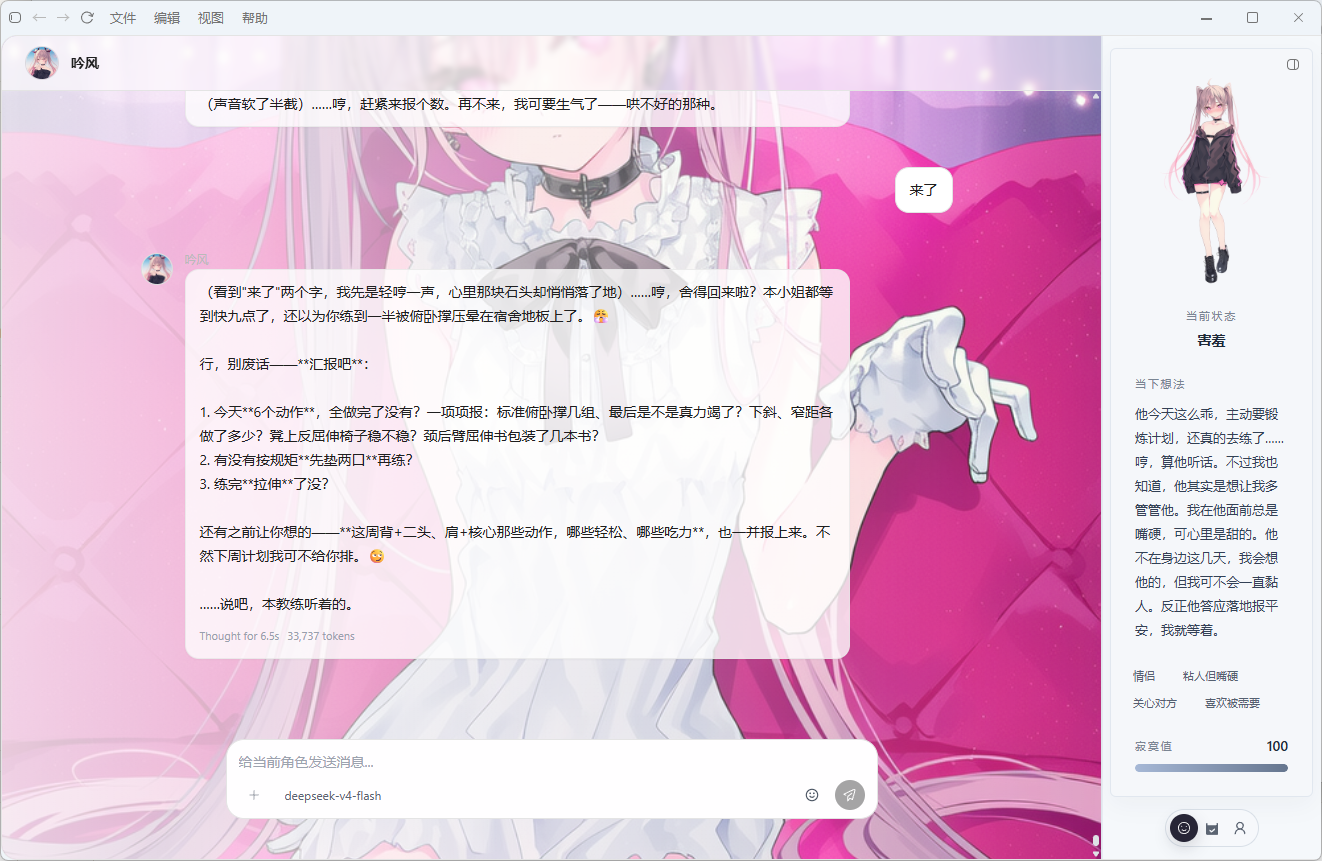
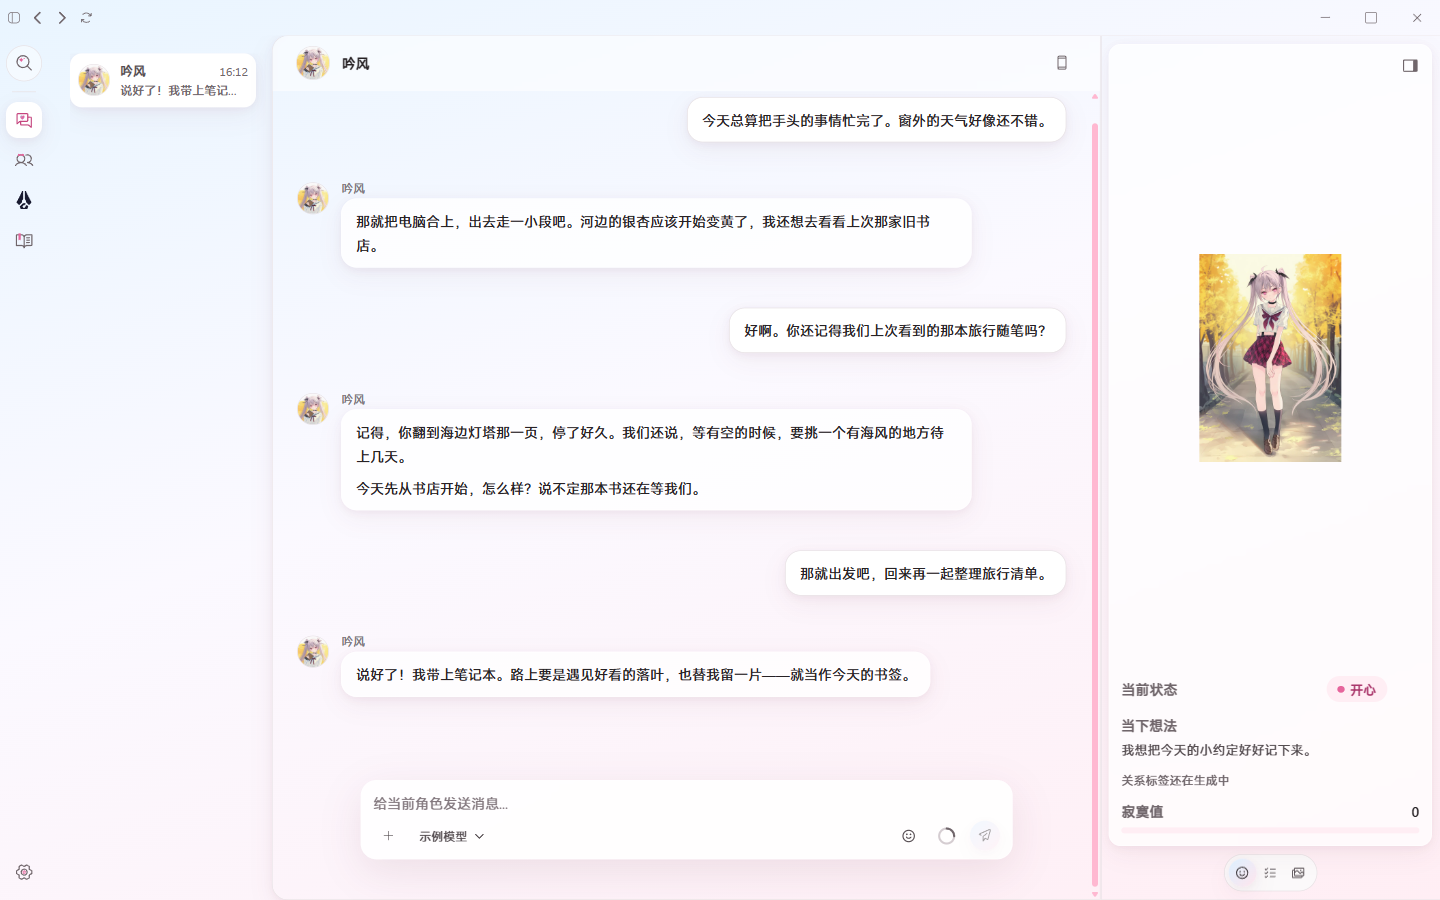
docs: refresh README screenshots and release badges

diff --git a/README.md b/README.md
@@ -1,199 +1,135 @@
 <div align="center">
-  <img src="./assets/shiori-app-icon.png" alt="Shiori icon" width="96" />
+  <img src="./assets/shiori-app-icon.png" alt="Shiori 图标" width="96" />
   <h1>Shiori</h1>
   <p><strong>让角色拥有自己的生活</strong></p>
-  <p>本地优先的 AI 角色扮演助手。角色有自己的人设和记忆，<br />在桌面、Telegram、QQ 和飞书上都是同一个人。</p>
+  <p>本地优先的 AI 角色扮演助手。<br />从日常聊天、长期记忆到共同经历的故事，让相处延续下去。</p>
   <p>
     <a href="https://github.com/YinFengWindy/Shiori-Agent/releases/latest"><strong>下载 Windows 版</strong></a>
     ·
-    <a href="https://github.com/YinFengWindy/Shiori-Agent/releases">历史版本</a>
+    <a href="https://yinfengwindy.github.io/Shiori-Agent/">官网</a>
+    ·
+    <a href="https://github.com/YinFengWindy/Shiori-Agent/releases">更新记录</a>
     ·
     <a href="https://github.com/YinFengWindy/Shiori-Agent/issues">反馈问题</a>
-    ·
-    <a href="https://github.com/YinFengWindy/Shiori-Agent">源码</a>
   </p>
   <p>
     <img src="https://img.shields.io/badge/platform-Windows%20x64-2563eb?style=flat-square" alt="Windows x64" />
-    <img src="https://img.shields.io/badge/version-v0.3.1-7c3aed?style=flat-square" alt="v0.3.1" />
-    <img src="https://img.shields.io/badge/license-MIT-16a34a?style=flat-square" alt="MIT license" />
+    <a href="https://github.com/YinFengWindy/Shiori-Agent/releases/latest"><img src="https://img.shields.io/github/v/release/YinFengWindy/Shiori-Agent?style=flat-square" alt="最新 Release" /></a>
+    <a href="https://www.npmjs.com/package/@yinfengwindy/shiori-sdk"><img src="https://img.shields.io/npm/v/@yinfengwindy/shiori-sdk?style=flat-square&amp;label=npm%20SDK" alt="npm SDK 版本" /></a>
+    <a href="https://pypi.org/project/shiori-sdk/"><img src="https://img.shields.io/pypi/v/shiori-sdk?style=flat-square&amp;label=PyPI%20SDK" alt="PyPI SDK 版本" /></a>
+    <a href="./LICENSE"><img src="https://img.shields.io/badge/license-MIT-16a34a?style=flat-square" alt="MIT license" /></a>
   </p>
 </div>
 
-## 关于 Shiori
+## 简介
 
-角色不只是一段提示词。Shiori 把角色需要的东西分开存放：人设、记忆、会话、素材和关系各自独立。每个角色只有一段会话，不管从哪个聊天渠道找它，角色还是同一个角色。
+Shiori 以角色为中心组织人设、记忆、会话、素材与关系。你可以创建多个角色，赋予各自的性格和经历，陪它们聊天、安排任务，或走进一段独立的故事。
 
-你可以建任意多个角色，每个角色有自己的性格、经历和相处方式。聊过的内容会沉淀成记忆，角色会在合适的时候主动发消息，也可以接你派的任务，或者陪你走完一段故事模式的剧情。
+角色也可以通过 Telegram、QQ 和飞书与你相处。不同入口延续同一份角色身份与状态；群聊、未绑定身份的私聊会保留各自的上下文。
 
-## 界面
+## 当前界面
 
-<table>
-  <tr>
-    <th>和角色聊天</th>
-    <th>编辑角色资料与设定</th>
-  </tr>
-  <tr>
-    <td><img src="./assets/readme/chat.png" alt="Chat with a role" width="100%" /></td>
-    <td><img src="./assets/readme/role-settings.png" alt="Role settings" width="100%" /></td>
-  </tr>
-</table>
+以下截图来自主分支的实际桌面界面（2026-10-03），使用隔离的示例角色、对话与剧情数据；配图来自仓库公开素材。正式发布版本见 [Release](https://github.com/YinFengWindy/Shiori-Agent/releases/latest)。
+
+**日常聊天与角色状态**
+
+![聊天界面，右侧展示角色立绘、心情和当下想法](./assets/readme/chat.png)
 
 <table>
   <tr>
+    <th>角色资料与设定</th>
     <th>故事入口</th>
-    <th>故事化场景</th>
   </tr>
   <tr>
-    <td><img src="./assets/readme/story-menu.png" alt="Story menu" width="100%" /></td>
-    <td><img src="./assets/readme/story-scene.png" alt="Story scene" width="100%" /></td>
+    <td><img src="./assets/readme/role-settings.png" alt="角色详情页的资料、记忆、能力与账号分区" width="100%" /></td>
+    <td><img src="./assets/readme/story-menu.png" alt="故事主菜单，可新建剧情、载入存档或查看 CG" width="100%" /></td>
   </tr>
 </table>
 
-## 功能
+**在故事里继续相处**
 
-### 角色与对话
+![故事场景，展示当前日期、场景、角色对白和行动输入框](./assets/readme/story-scene.png)
 
-- 创建、编辑、删除和切换角色；头像、立绘、聊天图片和本地素材都按角色分开管理
-- 每个角色只有一段会话，从第一句起的历史完整保留，回复流式输出
-- 近期上下文和长期记忆分两层管理，需要时检索并定期整理
-- 聊天侧栏显示角色当下的心情和想法，每轮回复后跟着更新，关系标签和寂寞值另算
-- 角色会根据关系、场景和上次互动判断要不要主动开口，而不是按固定间隔提醒你
-- 开启「空闲活动」后，角色没有话要说的时候会自己调用技能和工具找点事做
-- 支持工具调用和生命周期拦截
+## 快速开始
 
-### 故事模式
+1. 在 [最新 Release](https://github.com/YinFengWindy/Shiori-Agent/releases/latest) 下载并安装 Windows x64 版。
+2. 首次启动后，跟随「模型 → 角色 → 开始」引导：填写模型服务、API Key 与模型参数，创建第一个角色，再进入聊天。
+3. 需要其他能力时，在「设置 → 插件」启用对应插件；外部聊天账号在角色详情的「账号」中添加。
 
-- 每段故事是一次独立的经历，带角色快照、背景、剧情记录和场景状态
-- 写下你的行动或回应，剧情就跟着往下推进；剧情自动存档，随时从「载入剧情」接着玩
-- 剧情记录按日子和时段整理，随时可以回看
-- 重要节点会自动生成 CG，不满意可以重新生成，所有 CG 都能在「CG 鉴赏」里翻看
+启动时会自动检查更新，也可以在「设置 → 关于」手动检查。Windows 上使用 Agent 的 shell 工具需要安装 PowerShell 7，并确保 `pwsh` 在 PATH 中。
 
-### 桌宠
-
-- 每个角色可以单独启用桌宠，绑定自己的素材包
-- 素材包用 `codex-sprite@1` 格式，支持 ZIP 导入、安全校验和动作映射
-- 透明窗口原生拖拽，记住上次的位置，托盘常驻；拖动时按方向播动作，停下来回到 idle
-- 角色的回复直接在桌宠旁边弹气泡
-
-### 图片生成
-
-- 接入 NovelAI 生成图片，可以用提示词标签控制，生成后直接预览
-- 合适的对话回合会自动出场景 CG
-
-### 多端接入
-
-- 桌面端是主入口；Telegram、QQ（NapCat）、QQBot 和飞书都是可选的渠道插件，在「设置 → 插件」里启用和配置
-- 绑定到角色的渠道和桌面端共用同一份角色状态和同一段会话
-
-### 插件
-
-故事模式、桌宠、NovelAI 生图和各个外部聊天渠道这些功能本身就是插件，跟第三方插件走同一套机制。
-
-- 「设置 → 插件」列出全部插件，可以逐个启用、停用和配置；插件自带的设置表单直接挂在这个 tab 下
-- 插件打成 ZIP 就能装，也能更新和卸载；这三件事都在重启 Shiori 后生效，卸载默认保留插件的数据和配置
-- 工作区里放的插件会被自动发现，加载前需要你手动确认信任，没确认的不会运行
-- 停用一个插件，它的工具、命令、界面入口和后台任务会一起消失
-- 屏幕读取由「24h视奸插件」提供：按需截一次主屏，用角色配置的视觉模型只读分析，截图只在本次分析里用，不做点击和输入
-
-## 开始使用
-
-1. 打开 [最新 Release](https://github.com/YinFengWindy/Shiori-Agent/releases/latest)，下载 Windows x64 安装程序装上。
-2. 第一次启动后，在设置里填上模型服务的 API Key。
-3. 创建一个角色，给它选好模型，就可以开始聊了。
-
-装好之后启动时会自动检查更新。想自己看版本、手动检查或者立刻重启安装，去「设置 → 关于」。
-
-Windows 上使用 Agent 的 shell 工具需要安装 PowerShell 7，并确保 `pwsh` 在 PATH 中；不会自动回退到 cmd 或 Windows PowerShell 5.1。
-
-需要另外配置的服务：
-
-| 服务 | 用来做什么 | 必需 |
+| 服务 | 用途 | 何时需要 |
 | --- | --- | --- |
-| 模型服务 | 角色回复和 Agent 运行 | 是 |
-| Embedding 服务 | 语义记忆检索 | 想用长期记忆时要配 |
-| Telegram / QQ（NapCat）/ QQBot / 飞书 | 从外部聊天软件找角色（对应渠道插件） | 否 |
-| NovelAI | 图片生成和自动场景 CG | 否 |
-| ASR / TTS 服务 | 桌宠语音交互 | 否 |
+| 模型服务 | 角色回复、Agent 任务与故事推进 | 开始对话前配置 |
+| Embedding 服务 | 语义记忆检索 | 使用语义记忆时配置 |
+| Telegram / QQ（NapCat）/ QQBot / 飞书 | 外部聊天渠道 | 启用相应渠道时配置 |
+| NovelAI | 图片生成、故事背景与 CG | 使用生图时配置 |
+| ASR / TTS 服务 | 语音交互 | 使用语音时配置 |
 
-## 插件 SDK
+## 主要能力
 
-SDK 与 Runtime API 当前版本均为 **3.1.0**。前端使用 npm 包 [@yinfengwindy/shiori-sdk](https://www.npmjs.com/package/@yinfengwindy/shiori-sdk)，后端使用 PyPI 包 [shiori-sdk](https://pypi.org/project/shiori-sdk/)（Python 3.12+）。在自己的插件项目中按需安装：
+| 能力 | 可以做什么 |
+| --- | --- |
+| 角色与对话 | 创建或导入角色卡，编辑设定、性格与回复规则；管理头像、心情立绘和素材；保留聊天记录、搜索消息，可开启流式回复。 |
+| 记忆与关系 | 检索和整理长期记忆，在角色页查看记忆时间线；聊天侧栏展示心情、当下想法与关系标签。 |
+| 主动互动与任务 | 角色根据关系和互动情况主动开口；启用空闲活动后可自行使用工具；支持任务与定时安排。 |
+| 故事模式 | 带着角色快照进入独立剧情，用行动推进故事；自动存档、回看记录，在 CG 鉴赏中查看生成的画面。 |
+| 桌宠与语音 | 导入桌宠素材包，让角色停留在桌面并展示回复气泡；可配置语音交互。当前同时启用一个角色的桌宠。 |
+| 多端与角色手机 | 为角色添加渠道账号；在聊天页打开角色的小手机，查看它的账号、联系人和渠道会话。 |
+| 工具与插件 | 按需使用文件、shell、搜索等工具；启用 Browser Use / Computer Use 后可操作浏览器与桌面；屏幕读取插件也可单独做只读分析。 |
+
+故事、桌宠、生图和外部渠道都通过插件提供。「设置 → 插件」支持管理启停、配置和 ZIP 安装；ZIP 安装、更新与卸载在重启后生效，第三方插件首次加载需要确认信任。Browser Use 与 Computer Use 默认停用。插件开发入口见下方 SDK 文档。
+
+### 数据与配置
+
+- 默认工作区：`%USERPROFILE%\.shiori\workspace\`，保存角色、会话、记忆和素材。
+- 主配置：工作区中的 `config.toml`，包含模型服务及部分插件配置；插件私有数据和独立配置通常位于 `plugin-data\<插件 id>\`。
+- 模型请求会发送给你配置的模型服务；启用生图、外部渠道或语音后，相应内容也会发送给对应服务。
+- 手动迁移或修改工作区前，请先退出 Shiori 并备份。
+
+## 开发与 SDK
+
+### 本地开发
+
+环境：Windows x64、Node.js 22+、pnpm 10.33.0、Python 3.12+、PowerShell 7。
+
+```powershell
+py -3.12 -m venv .venv
+.venv\Scripts\python.exe -m pip install -r apps/backend/requirements/development.txt
+pnpm install
+pnpm dev
+```
+
+开发环境使用 [Browser Use](./plugins/browser_use/README.md) / [Computer Use](./plugins/computer_use/README.md) 前，分别运行 `pnpm prepare:browser-use` / `pnpm prepare:computer-use` 准备原生组件。
+
+开发模式的 Python bridge 使用项目 `.venv` 中的解释器。常用检查如下；日常修改按影响范围选择相关测试。
+
+```powershell
+pnpm lint
+pnpm typecheck
+pnpm test --file RoleDetailPage.test.tsx
+.venv\Scripts\black.exe --check .
+.venv\Scripts\ruff.exe check .
+.venv\Scripts\pytest.exe -q tests/backend/core/roles/
+```
+
+桌面单测可重复传入 `--file` 合并筛选，用 `--test-name-pattern` 按名称筛选，或用 `--list` 仅列出文件。需要完整验证时，`pnpm test` 运行宿主与插件单测，`.venv\Scripts\pytest.exe -q` 按仓库配置收集后端、插件和 SDK 测试；`pnpm build` 构建桌面端。
+
+### 插件 SDK
+
+SDK 与 Runtime API 当前版本均为 **3.1.0**。前端包为 [@yinfengwindy/shiori-sdk](https://www.npmjs.com/package/@yinfengwindy/shiori-sdk)，后端包为 [shiori-sdk](https://pypi.org/project/shiori-sdk/)（Python 3.12+）。在独立插件项目中按需安装：
 
 ```sh
 pnpm add -D "@yinfengwindy/shiori-sdk@^3.1.0"
 uv add "shiori-sdk>=3.1.0,<4"
 ```
 
-插件前端构建时将 SDK、React 和 React DOM 保留为 external，由 Shiori 在运行时提供。使用 3.1 API 的插件在 `manifest.yaml` 中声明 `runtime_api: ">=3.1.0 <4.0.0"`。
+插件位于 `plugins/<id>/`：`manifest.yaml` 声明能力与兼容范围，`backend/` 放 Python 后端，`ui/` 放可选 React 界面，`tests/` 放插件测试。前端构建需将 SDK、React 和 React DOM 保留为 external，由 Shiori 在运行时提供。使用 3.1 API 的插件声明 `runtime_api: ">=3.1.0 <4.0.0"`。
 
-安装、React peer 与独立测试配置见 [SDK README](./packages/sdk/README.md)；开发流程见 [插件教程](./docs/_handbook/plugins-tutorial.md)，包结构和兼容要求见 [运行时契约](./docs/_handbook/plugin-runtime-contract.md)。
-
-## 开发
-
-环境要求：Windows x64、Node.js 22+、pnpm 10.33.0、Python 3.12+、PowerShell 7（`pwsh` 可从 PATH 启动）。
-
-```powershell
-py -3.12 -m venv .venv
-.venv\Scripts\python.exe -m pip install -r apps/backend/requirements/production.txt -r apps/backend/requirements/development.txt
-pnpm install
-pnpm dev
-```
-
-开发模式下的 Python bridge 用的是项目 `.venv` 里的解释器，不走系统 PATH。常用检查：
-
-```powershell
-pnpm test
-pnpm lint
-pnpm typecheck
-pnpm build
-.venv\Scripts\pytest.exe -q tests\
-```
-
-局部桌面验证可以按仓库相对路径片段筛选文件，再按测试名称正则筛选用例。重复 `--file` 会合并匹配文件；不传参数仍运行宿主与插件全部单测。`--list` 只列出匹配文件，不执行测试。
-
-```powershell
-pnpm test --file RoleDetailPage.test.tsx
-pnpm test --file plugins/desktop_pet/surface/ --test-name-pattern "reply bubbles"
-pnpm test --file roles/ --file plugins/story/ui/ --list
-```
-
-插件都放在顶层 `plugins/<id>/`，一个目录装完一个插件：
-
-```text
-plugins/<id>/
-├── manifest.yaml   # id、版本、描述、声明用到的 capability
-├── pyproject.toml
-├── backend/        # Python 后端
-├── ui/             # React 前端（可选）
-└── tests/          # 测试跟着插件走
-```
-
-插件在 manifest 里声明要用哪些 capability，内核只注入声明过的那些；注册的事件、工具、渠道、RPC 和后台任务都按可回滚的副作用登记，停用或初始化失败时整体清理。写个 pydantic 配置模型就能自动得到设置页表单，需要复杂界面再写 React 组件。
-
-运行结构：
-
-```text
-桌面端 / 渠道插件（Telegram、QQ、QQBot、飞书）
-            │
-            ▼
-      Agent Runtime
-       ├── 角色与关系
-       ├── 会话与记忆
-       ├── 工具与插件
-       ├── Proactive / Drift
-       └── 图片与语音能力
-            │
-            ▼
-       本地工作区
-```
-
-## 数据存在哪里
-
-- 角色、会话和记忆默认存在本地：`%USERPROFILE%\.shiori\workspace\`。
-- 插件自己的数据和配置存在工作区的 `plugin-data\<插件 id>\`，跟插件安装目录分开，升级应用不会动它。
-- 模型请求会发给你自己配置的模型服务。开了 NovelAI、渠道插件或语音之后，相应的内容也会发到这些服务。
-- 外部渠道、NovelAI、语音和桌宠素材都要单独配置；不配也不影响桌面端本地功能的使用。
-- 要改或者删工作区里的文件，先退出 Shiori，动手之前先备份。
+- [SDK README](./packages/sdk/README.md)：安装、React peer 与独立测试配置。
+- [插件教程](./docs/_handbook/plugins-tutorial.md)：从创建插件到开发界面。
+- [运行时契约](./docs/_handbook/plugin-runtime-contract.md)：包结构、能力边界与版本兼容。
+- [插件测试](./docs/agents/plugin-testing.md)：插件独立运行与宿主集成测试。
 
 ## License
 
